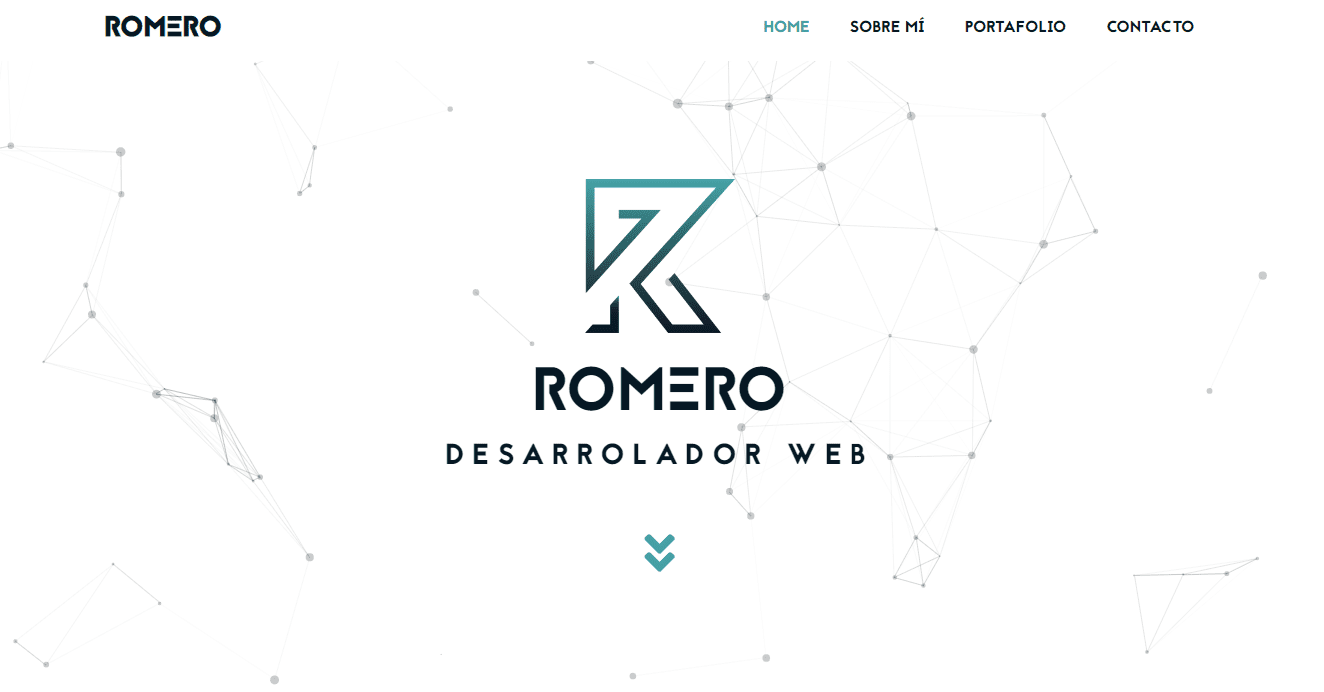
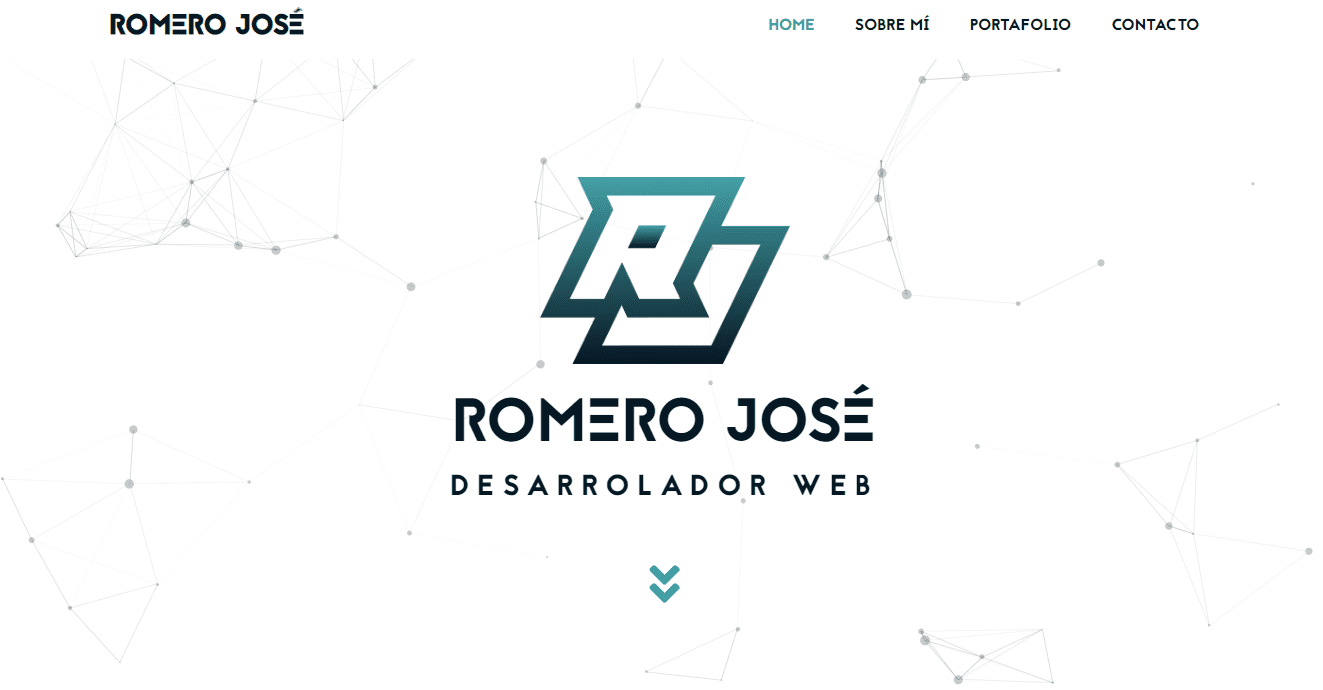
imagenes

diff --git a/index.html b/index.html
@@ -37,7 +37,7 @@
   <!-- Inicio de Barra de Navegación -->
   <nav class="navbar navbar-expand-lg bg-primary fixed-top" id="mainNav">
     <div class="container">
-      <a class="navbar-brand js-scroll-trigger align-middle mt-1" href="#page-top">Romero</a>
+      <a class="navbar-brand js-scroll-trigger align-middle mt-1" href="#page-top">Romero José</a>
       <button class="navbar-toggler navbar-toggler-right font-weight-bold text-white rounded" type="button"
         data-toggle="collapse" data-target="#navbarResponsive" aria-controls="navbarResponsive" aria-expanded="false"
         aria-label="Toggle navigation">
@@ -75,7 +75,7 @@
         <div class="container text-center">
           <div class="btext">
             <img class="mb-4 logoh" src="img/romero.png" alt="">
-            <h1 class="masthead-heading">ROMERO</h1>
+            <h1 class="masthead-heading">ROMERO JOSÉ</h1>
             <p class="but masthead-subheading">DESARROLADOR WEB</p>
           </div>
         </div>
@@ -298,7 +298,7 @@
             <li><a href="https://facebook.com/romerojoseing" target="_blank"><i class="fab fa-facebook-f"></i></a></li>
             <li><a href="https://twitter.com/romerojoseing" target="_blank"><i class="fab fa-twitter"></i></a></li>
           </div>
-          <img src="img/logo.png" alt="" width="200">
+          <img src="img/foot.png" alt="" width="300">
         </div>
       </div>
     </div>
@@ -311,7 +311,7 @@
     <div class="container">
       <div class="row">
         <div class="col-12">
-          <h5 class="le">COPYRIGHT © 2020 , ROMERO</h5>
+          <h5 class="le">COPYRIGHT © 2020, ROMERO JOSÉ<h5>
         </div>
       </div>
     </div>

diff --git a/css/style.css b/css/style.css
@@ -10038,7 +10038,7 @@
 }
 
 .logoh{
-  width: 150px;
+  width: 250px;
 }
 
 @media (max-width: 992px){
